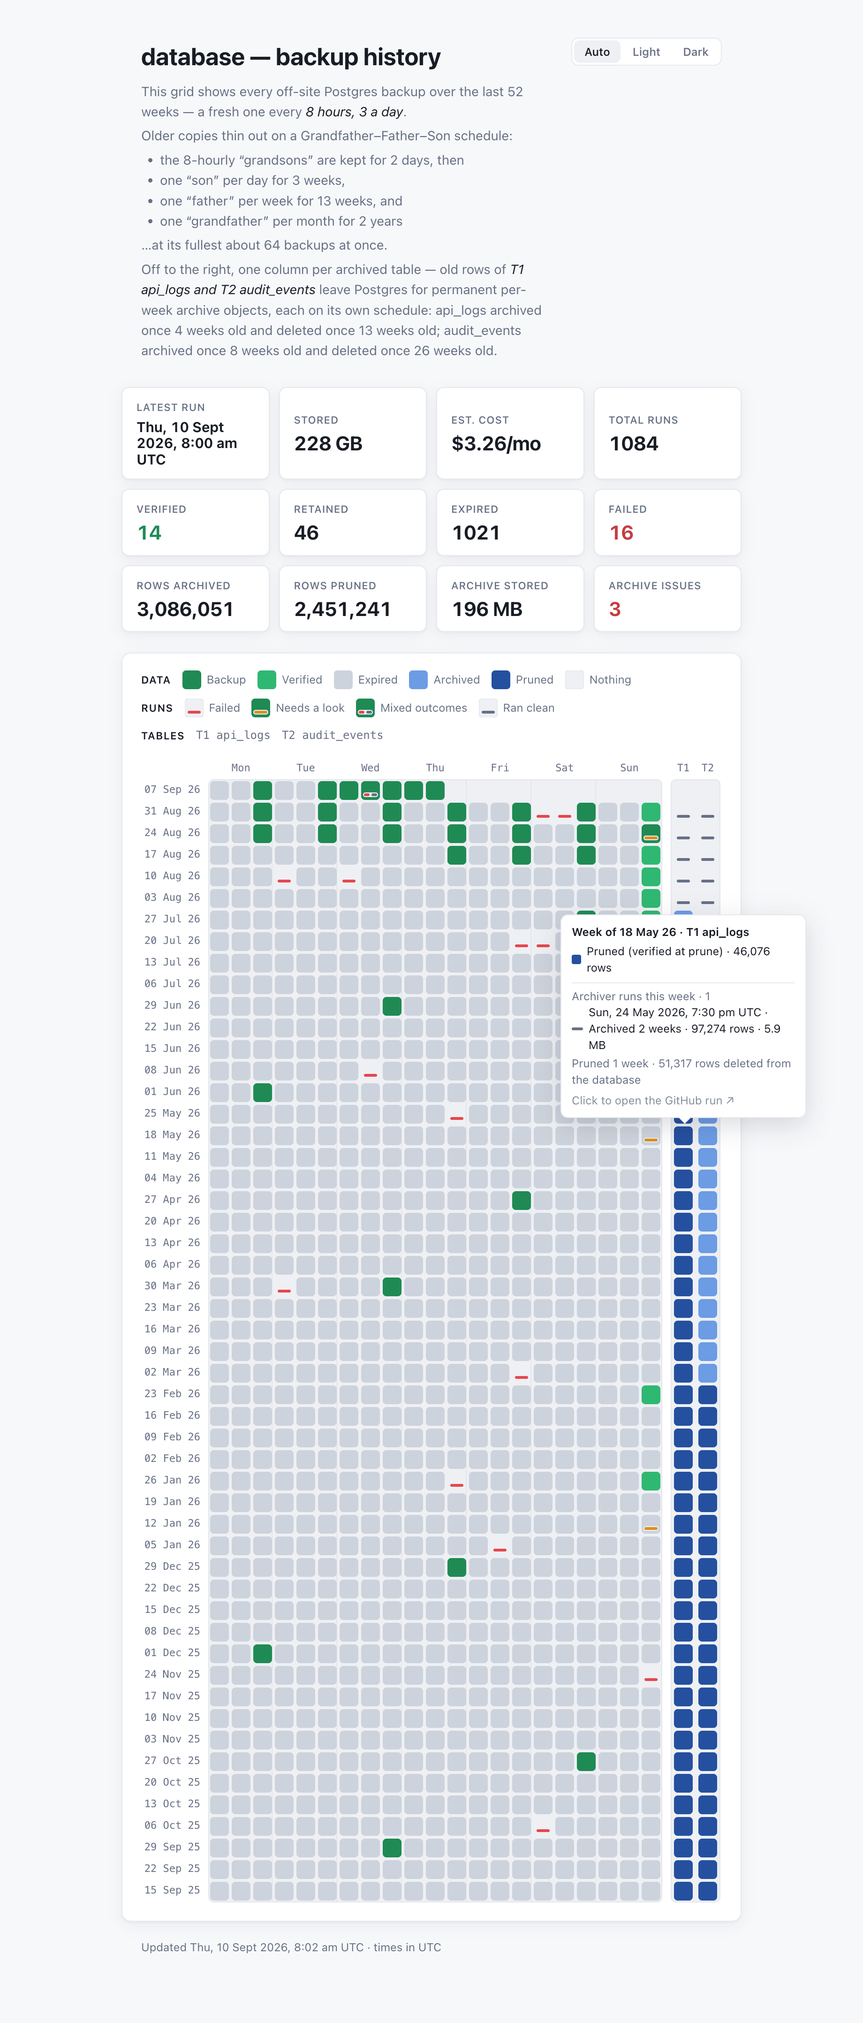
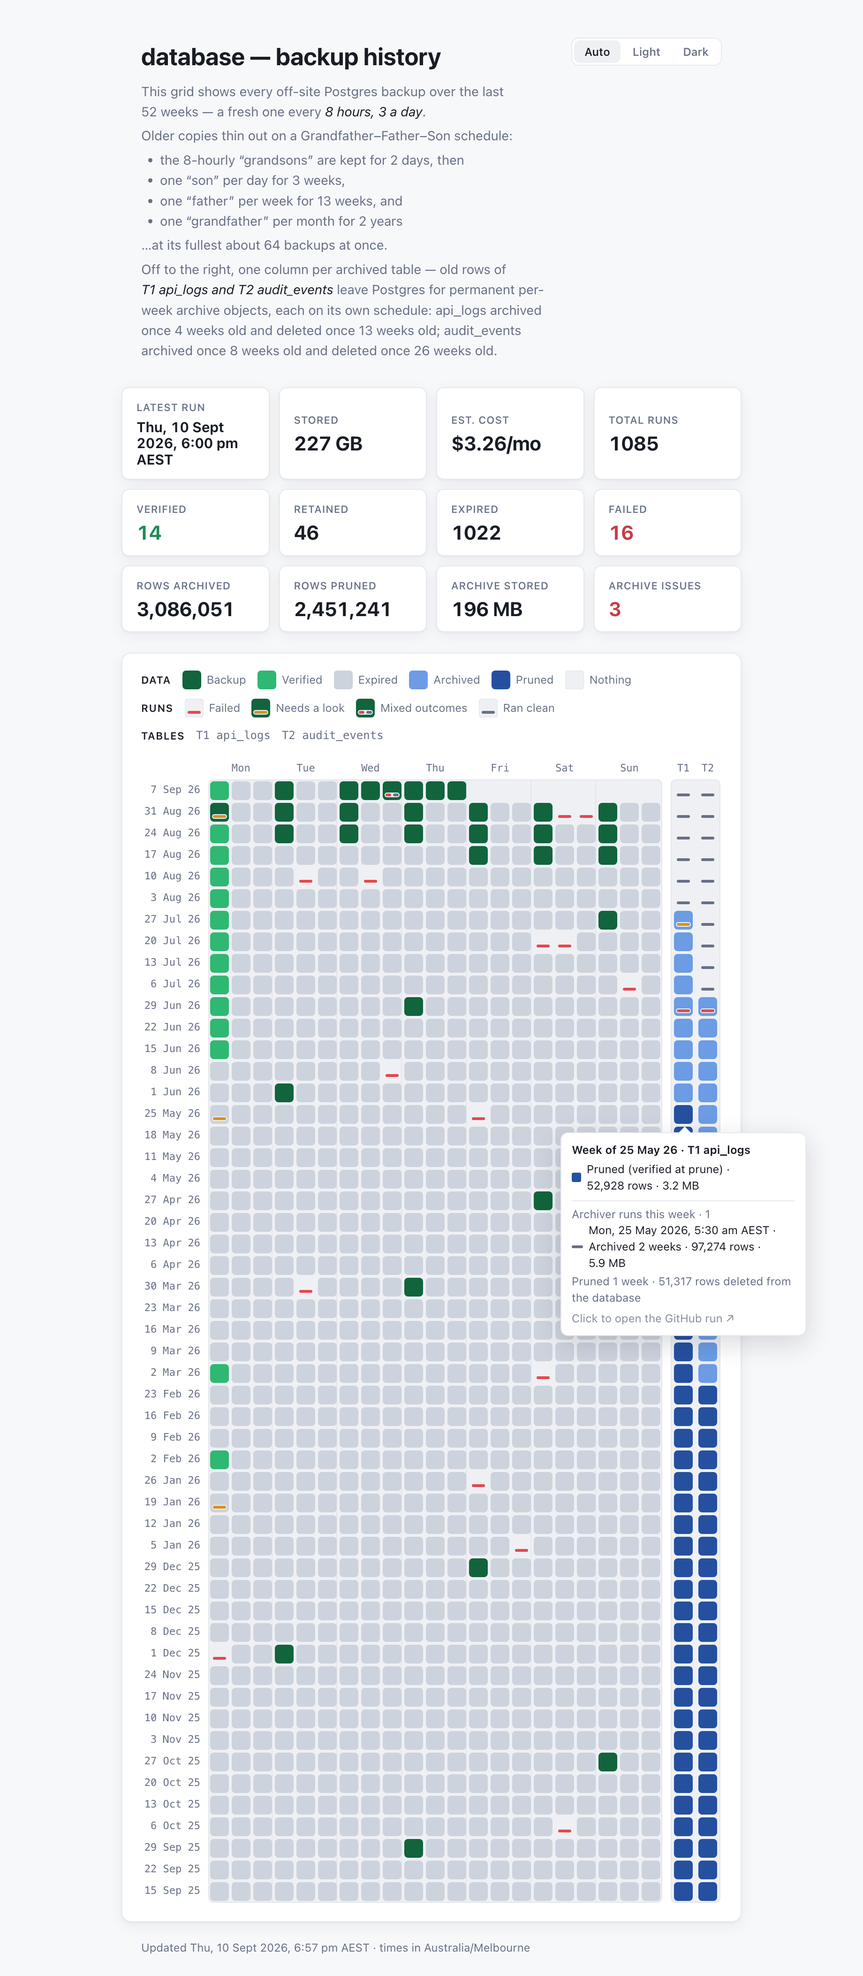
Four dashboard readability fixes: dates, archive sizes, green contrast, unit wrapping (#37)
* Right-align the week labels without a leading zero

A leading zero on a right-aligned label buys no alignment — the column already lines
up on its right edge — and it makes every row read as a serial number rather than a
date. "7 Sep 26", not "07 Sep 26".

* Give an archived week a size, the way a backup slot has one

A backup cell says how big its dump is; an archive cell said only how many rows it holds,
which left the one question an operator asks of an archive — what is this costing me —
answerable only in aggregate from the ARCHIVE STORED card.

The size was already known: archive-table.ts stats the object it uploads and records it in
the manifest as objectBytes. It simply never reached the index. ArchivedPart now carries
those bytes, written by both the live path and --rebuild-index, and scrubArchiveWeek
publishes the ACTIVE part's size beside the active part's rows, so the two always describe
the same object.

bytes is OMITTED, never zeroed, when a part records none: index lines written before this
field existed, and zero-row weeks that get a manifest but no data object, must read as
"size unknown" — "0 B" would read as an empty archive. Weeks already in a live index
therefore keep showing rows alone until they are re-archived, or until --rebuild-index
back-fills them from the manifests.

* Open up the green ramp so verified does not read as unverified

"A backup exists" and "a restore drill proved it restores" are the same shape in the same
[…]

Changed region(s): [[0.1549, 0.0311, 0.8984, 0.9644], [0.7125, 0.1867, 0.8054, 0.3111]]

diff --git a/dashboard/heatmap.ts b/dashboard/heatmap.ts
@@ -54,6 +54,7 @@ import {
   type RectOp,
 } from "../scripts/lib/cellGlyph.js";
 import { summarizeOutcomes, type CellMark, type OutcomeCode, NO_MARK } from "../scripts/lib/outcomes.js";
+import { bindUnits } from "../scripts/lib/units.js";
 import { themeControl } from "./theme.js";
 
 const SVGNS = "http://www.w3.org/2000/svg";
@@ -440,12 +441,30 @@ const PANEL_GAP = 3;
 const EDGE = 8;
 
 /**
+ * Bind every "5.9 MB" / "2 weeks" in a subtree so it cannot wrap — see units.ts for why this is done
+ * to rendered text rather than to the strings that produce it.
+ *
+ * Walking TEXT NODES, not the HTML, is the point: the tooltip markup carries class names and hrefs,
+ * and a regex over the serialised form could reach inside an attribute. A text node cannot be an
+ * attribute, so this is incapable of corrupting the markup it fixes.
+ */
+function bindUnitsIn(root: Node): void {
+  const walk = document.createTreeWalker(root, NodeFilter.SHOW_TEXT);
+  for (let n = walk.nextNode(); n; n = walk.nextNode()) {
+    const bound = bindUnits(n.nodeValue ?? "");
+    if (bound !== n.nodeValue) n.nodeValue = bound;
+  }
+}
+
+/**
  * Place a panel against a cell: below it when there is room, above it when there isn't, centred on
  * the cell and clamped to the viewport — with the beak shifted by whatever the clamp took, so it
  * keeps pointing at the cell even when the panel has been pushed sideways.
  */
 function placePanel(el: HTMLElement, html: string, anchor: Anchor): void {
   el.innerHTML = html;
+  bindUnitsIn(el); // before measuring: a bound line is what decides the panel's width
+
   // Measure from the left edge, not from wherever the panel last sat. These are fixed-position
   // shrink-to-fit boxes with `right: auto`, so their width depends on the space between `left` and
   // the viewport edge: measuring after positioning yields a width the panel then reflows away from,
@@ -698,6 +717,13 @@ function archiveProblem(r: PublicArchiveRun): string {
   return bits.join(" · ");
 }
 
+/**
+ * " · 41.2 KB" — the size of the object those rows are stored in, said the same way a backup cell
+ * says its dump's size. Empty when the index line predates the field, so an old week reads as rows
+ * alone rather than claiming 0 B.
+ */
+const archiveSize = (bytes: number | undefined): string => (bytes == null ? "" : ` · ${formatBytes(bytes)}`);
+
 const ARCHIVE_DATA_LABEL: Record<ArchiveBodyState, string> = {
   archived: "Archived",
   pruned: "Pruned (verified at prune)",
@@ -719,7 +745,7 @@ function archiveTipHtml(r: number, table: string, cell: ArchiveCell | null): str
   const data = cell?.data ?? null;
   lines.push(
     data
-      ? `<div class="tip-state">${dot(bodyClass(data.state)!)}${ARCHIVE_DATA_LABEL[data.state]} · ${rowsWord(data.rows)}</div>`
+      ? `<div class="tip-state">${dot(bodyClass(data.state)!)}${ARCHIVE_DATA_LABEL[data.state]} · ${rowsWord(data.rows)}${archiveSize(data.bytes)}</div>`
       : `<div class="tip-muted">No rows archived for this week</div>`,
   );
 
@@ -766,3 +792,8 @@ function archiveChooserHtml(cell: ArchiveCell): string {
 // Footer: generated-at
 const footer = elem("footer", "footer", `Updated ${formatInTz(now)} · times in ${DISPLAY_TZ}`);
 app.appendChild(footer);
+
+// The page is now complete, so bind its numbers to their units in one pass — the stat values, the
+// GFS bullets, the archive blurb, the week-start labels and this footer, none of which know about
+// each other. The tooltips are bound as they are built, in placePanel.
+bindUnitsIn(app);

diff --git a/scripts/__tests__/units.test.ts b/scripts/__tests__/units.test.ts
@@ -1,0 +1,49 @@
+import { test } from "node:test";
+import assert from "node:assert/strict";
+import { bindUnits, NBSP } from "../lib/units.js";
+import { retentionBullets, archiveBlurb, slotCadencePhrase, DEFAULT_RETENTION } from "../lib/backupTypes.js";
+
+// U+00A0 and U+0020 look identical in a failure message, so every assertion here is written against
+// the NBSP constant rather than against a pasted character.
+const bound = (n: string, unit: string): string => `${n}${NBSP}${unit}`;
+
+test("bindUnits: a number and the word it measures cannot be split", () => {
+  for (const [n, unit] of [["5.9", "MB"], ["3,045", "rows"], ["2", "weeks"], ["1", "week"],
+                           ["227", "GB"], ["64", "backups"], ["10", "Sept"], ["8:00", "am"]]) {
+    assert.equal(bindUnits(`${n} ${unit}`), bound(n, unit));
+  }
+});
+
+test("bindUnits: every pair on a line is bound, not just the first", () => {
+  assert.equal(
+    bindUnits("Archived 2 weeks · 97,274 rows · 5.9 MB"),
+    `Archived ${bound("2", "weeks")} · ${bound("97,274", "rows")} · ${bound("5.9", "MB")}`,
+  );
+});
+
+test("bindUnits: spaces that are NOT a number meeting its unit stay breakable", () => {
+  // A tooltip is ~240px wide; gluing text that has no reason to stay together only makes the panel
+  // wider. A digit before a digit is a date or a separator, and a digit before punctuation is a
+  // break the panel actively wants.
+  for (const s of ["Sun, 24 May 2026, 7:30 pm UTC", "Archiver runs this week · 1 — Archived",
+                   "Week of 18 May 26 · T1 api_logs", "rows deleted from the database"]) {
+    assert.equal(bindUnits(s).includes(`26${NBSP}·`), false, s);
+  }
+  assert.equal(bindUnits("2026, 7:30 pm"), `2026, ${bound("7:30", "pm")}`, "the year keeps its break");
+  assert.equal(bindUnits("· 1 — Archived"), "· 1 — Archived", "an em dash is a break opportunity");
+});
+
+test("bindUnits: idempotent — a panel rebuilt from bound text is unchanged", () => {
+  const once = bindUnits("Archived 2 weeks · 5.9 MB");
+  assert.equal(bindUnits(once), once);
+});
+
+// The reason this rule is applied to rendered text rather than to the builders: these three produce
+// numbers and units, none of them knows about the others, and none of them should have to.
+test("the page's prose still reads as plain strings — binding is the renderer's job", () => {
+  const prose = [...retentionBullets(DEFAULT_RETENTION), slotCadencePhrase(),
+                 Object.values(archiveBlurb([{ table: "api_logs", archiveAfterWeeks: 4, pruneAfterWeeks: 13 }])).join("")];
+  for (const s of prose) assert.equal(s.includes(NBSP), false, `${s} should carry no U+00A0`);
+  // …and the renderer's pass is what makes them safe.
+  assert.equal(bindUnits(retentionBullets(DEFAULT_RETENTION)[1]).includes(bound("3", "weeks")), true);
+});

diff --git a/scripts/__tests__/dashboard-theme.test.ts b/scripts/__tests__/dashboard-theme.test.ts
@@ -88,6 +88,46 @@ test("every body and mark class colours the SVG and the tooltip from one declara
   }
 });
 
+// ── Palette separation ───────────────────────────────────────────────────────
+
+/** WCAG relative luminance of a #rrggbb literal. */
+function luminance(hex: string): number {
+  const ch = (i: number): number => {
+    const c = parseInt(hex.slice(1 + i * 2, 3 + i * 2), 16) / 255;
+    return c <= 0.03928 ? c / 12.92 : ((c + 0.055) / 1.055) ** 2.4;
+  };
+  return 0.2126 * ch(0) + 0.7152 * ch(1) + 0.0722 * ch(2);
+}
+const ratio = (a: string, b: string): number => {
+  const [hi, lo] = [luminance(a), luminance(b)].sort((x, y) => y - x);
+  return (hi + 0.05) / (lo + 0.05);
+};
+/** The two `light-dark()` arms of a token, as hex literals. */
+function arms(token: string): [string, string] {
+  const m = html.match(new RegExp(`${token}:\\s*light-dark\\((#[0-9a-f]{6}),\\s*(#[0-9a-f]{6})\\)`));
+  assert.ok(m, `${token} must be declared as light-dark() of two hex literals`);
+  return [m![1], m![2]];
+}
+
+test("the two greens are a real step apart — a verified backup must LOOK like the stronger claim", () => {
+  // `--ok` and `--verified` are the same shape in the same column; colour is the only thing
+  // carrying "a drill proved this one restores". At one step apart they read as one green on the
+  // published page, which is the whole reason this floor exists.
+  const [okL, okD] = arms("--ok");
+  const [verL, verD] = arms("--verified");
+  assert.ok(ratio(okL, verL) >= 2.4, `light: ${okL} vs ${verL} is only ${ratio(okL, verL).toFixed(2)}:1`);
+  assert.ok(ratio(okD, verD) >= 2.4, `dark: ${okD} vs ${verD} is only ${ratio(okD, verD).toFixed(2)}:1`);
+});
+
+test("…and the darker of the two still clears 3:1 against the grid it sits on", () => {
+  // The floor above is satisfiable by making `--ok` black. This is the other side of it: a body
+  // square is a graphical object, so AA wants 3:1 against the surface behind it.
+  const [okL, okD] = arms("--ok");
+  const [surfL, surfD] = arms("--surface");
+  assert.ok(ratio(okL, surfL) >= 3, `light: ${okL} on ${surfL} is ${ratio(okL, surfL).toFixed(2)}:1`);
+  assert.ok(ratio(okD, surfD) >= 3, `dark: ${okD} on ${surfD} is ${ratio(okD, surfD).toFixed(2)}:1`);
+});
+
 test("every token a rule reads is actually declared", () => {
   // A declaration is `--x:`; a read is `var(--x)` and is never followed by a colon, so a plain
   // global match separates the two without caring how the stylesheet is wrapped.

diff --git a/scripts/lib/units.ts b/scripts/lib/units.ts
@@ -1,0 +1,36 @@
+// ─────────────────────────────────────────────────────────────────────────────
+// One typographic rule: a number and the word it measures are a single token.
+//
+// "5.9 MB" broken across two lines reads as two facts, and in a 240px tooltip that happens
+// constantly — "Archived 2 weeks · 97,274 rows · 5.9 / MB" is genuinely harder to read than the
+// same line one word narrower would be.
+//
+// The fix is applied to RENDERED TEXT rather than threaded through the string builders, and that is
+// the whole design of this module. Every count in the page is assembled somewhere different — the
+// tooltips here, the prose in backupTypes.ts, tier labels parsed out of the profile in config.ts —
+// so binding at the source would mean an invisible U+00A0 in a dozen template literals and in every
+// test that asserts one. Binding at the sink is one rule, applied once, that no new caller can
+// forget.
+// ─────────────────────────────────────────────────────────────────────────────
+
+/** U+00A0. Spelled out because it is invisible in source and in test failures. */
+export const NBSP = "\u00a0";
+
+/**
+ * A digit, then a space, then a letter: bind them.
+ *
+ * The lookahead is deliberately letters only. A space between two digits is a thousands separator
+ * or a date ("2026, 7:30"), and a space before punctuation ("· 1 — Archived") is a real break
+ * opportunity the panel needs — gluing those would only make the box wider for no gain.
+ */
+const NUMBER_THEN_UNIT = /(\d) (?=\p{L})/gu;
+
+/**
+ * "5.9 MB", "3,045 rows", "2 weeks", "10 Sept", "8:00 am" — each becomes unbreakable.
+ *
+ * Idempotent: text already bound has no plain space left to match, so re-running over a panel that
+ * was rebuilt from bound text is a no-op rather than a corruption.
+ */
+export function bindUnits(text: string): string {
+  return text.replace(NUMBER_THEN_UNIT, `$1${NBSP}`);
+}

diff --git a/scripts/lib/archiveIndex.ts b/scripts/lib/archiveIndex.ts
@@ -24,9 +24,14 @@ import type { PublicArchiveWeek } from "./backupTypes.js";
 const warn = (msg: string): void => void process.stderr.write(`${msg}\n`);
 
 /**
- * One private index line reduced to what the dashboard may say out loud: the week, its state, and
- * how many rows it holds. `rows` is the ACTIVE part's count — the highest-numbered `full` part, per
- * archive.ts — because supplements describe rows that arrived late, not a snapshot of the window.
+ * One private index line reduced to what the dashboard may say out loud: the week, its state, how
+ * many rows it holds and how big it is. Both come from the ACTIVE part — the highest-numbered
+ * `full` part, per archive.ts — because supplements describe rows that arrived late, not a snapshot
+ * of the window, and a size beside a row count must describe the same object the count does.
+ *
+ * `bytes` is omitted rather than zeroed when the part records none: an index line written before
+ * the field existed, or a zero-row week with no data object, must render as "no size known" and not
+ * as "0 B". Weeks archived before this shipped therefore keep showing rows alone.
  *
  * Pure, and tested as such: it is the only thing standing between the private index and a public
  * page, so "no digest ever reaches the payload" is a unit test rather than a code review.
@@ -37,7 +42,15 @@ export function scrubArchiveWeek(table: string, record: unknown): PublicArchiveW
   if (typeof rec.label !== "string") return null;
   if (rec.state !== "archived" && rec.state !== "pruned") return null;
   const parts = Array.isArray(rec.parts) ? rec.parts : [];
-  return { table, week: rec.label, state: rec.state, rows: activePart(parts)?.rowCount ?? 0 };
+  const active = activePart(parts);
+  const bytes = active?.bytes;
+  return {
+    table,
+    week: rec.label,
+    state: rec.state,
+    rows: active?.rowCount ?? 0,
+    ...(typeof bytes === "number" && Number.isFinite(bytes) ? { bytes } : {}),
+  };
 }
 
 /**

diff --git a/scripts/build-dashboard.ts b/scripts/build-dashboard.ts
@@ -450,8 +450,9 @@ function makeSample(now: Date): {
   /** A plausible fingerprint. Never published — the scrub drops it — but the record carries one. */
   const fakeDigest = (label: string): string =>
     [...label].reduce((h, c) => (Math.imul(h ^ c.charCodeAt(0), 16_777_619) >>> 0), 2_166_136_261).toString(16).padStart(16, "0");
-  const fullPart = (part: number, rows: number, label: string): ArchivedPart => ({
-    part, role: "full", rowCount: rows, fingerprint: { n: rows, digest: fakeDigest(`${label}#${part}`) },
+  const fullPart = (part: number, rows: number, label: string, bytesPerRow: number): ArchivedPart => ({
+    part, role: "full", rowCount: rows, bytes: rows * bytesPerRow,
+    fingerprint: { n: rows, digest: fakeDigest(`${label}#${part}`) },
   });
 
   /** What one table's store knows about one week, as the simulation walks forward. */
@@ -478,7 +479,9 @@ function makeSample(now: Date): {
       const rows = Math.round(v.rows + rand() * v.spread);
       rowsArchived += rows;
       bytes += rows * v.bytesPerRow;
-      if (commit) book.set(w.label, { rows, state: "archived", parts: [fullPart(1, rows, w.label)] });
+      if (commit) {
+        book.set(w.label, { rows, state: "archived", parts: [fullPart(1, rows, w.label, v.bytesPerRow)] });
+      }
     }
     return { weeksArchived: weeks.length, rowsArchived, bytes };
   };
@@ -551,7 +554,11 @@ function makeSample(now: Date): {
   if (superseded) {
     const [label, b] = superseded;
     const grown = b.rows + 137;
-    b.parts = [{ ...fullPart(1, b.rows, label), role: "superseded" }, fullPart(2, grown, label)];
+    const perRow = VOLUME["public.api_logs"].bytesPerRow;
+    b.parts = [
+      { ...fullPart(1, b.rows, label, perRow), role: "superseded" },
+      fullPart(2, grown, label, perRow),
+    ];
     b.rows = grown;
   }
 

diff --git a/scripts/__tests__/archiveIndex.test.ts b/scripts/__tests__/archiveIndex.test.ts
@@ -45,6 +45,28 @@ test("scrubArchiveWeek: rows come from the ACTIVE part, not the newest or the su
   assert.equal(rows([]), 0, "a zero-row week is archived, and says so");
 });
 
+test("scrubArchiveWeek: bytes come from the same part the rows do", () => {
+  const week = scrubArchiveWeek("t", {
+    ...RECORD,
+    state: "archived",
+    parts: [
+      { part: 1, role: "superseded", rowCount: 100, bytes: 4_000, fingerprint: { n: 100, digest: "a" } },
+      { part: 2, role: "full", rowCount: 140, bytes: 5_500, fingerprint: { n: 140, digest: "b" } },
+    ],
+  });
+  assert.deepEqual(week, { table: "t", week: "2026-W02", state: "archived", rows: 140, bytes: 5_500 });
+});
+
+test("scrubArchiveWeek: a part with no byte count publishes no size at all", () => {
+  // Index lines written before `bytes` existed, and zero-row weeks (a manifest, no data object),
+  // must read as "size unknown" on the page. `bytes: 0` would read as "an empty archive".
+  for (const bytes of [undefined, null, "12", Number.NaN]) {
+    const parts = [{ part: 1, role: "full", rowCount: 409, bytes, fingerprint: { n: 409, digest: "a" } }];
+    assert.equal("bytes" in scrubArchiveWeek("t", { ...RECORD, parts })!, false, String(bytes));
+  }
+  assert.equal("bytes" in scrubArchiveWeek("api_logs", RECORD)!, false, "the legacy record shape");
+});
+
 test("scrubArchiveWeek: anything that is not a real week record is dropped, not guessed at", () => {
   for (const bad of [null, undefined, 42, "2026-W02", {}, { label: "2026-W02" },
                      { label: "2026-W02", state: "deleted", parts: [] },

diff --git a/scripts/lib/backupHistory.ts b/scripts/lib/backupHistory.ts
@@ -116,10 +116,10 @@ function ordinalToDate(ordinal: number): { y: number; mo: number; day: number } 
   return { y: d.getUTCFullYear(), mo: d.getUTCMonth() + 1, day: d.getUTCDate() };
 }
 
-/** Week-start label in DD MMM YY, e.g. "07 Jun 27". */
+/** Week-start label in D MMM YY, e.g. "7 Jun 27" — no leading zero, the labels are right-aligned. */
 export function weekStartLabel(ordinal: number): string {
   const { y, mo, day } = ordinalToDate(ordinal);
-  return `${String(day).padStart(2, "0")} ${MONTH_SHORT[mo - 1]} ${String(y).slice(-2)}`;
+  return `${day} ${MONTH_SHORT[mo - 1]} ${String(y).slice(-2)}`;
 }
 
 /**
@@ -493,7 +493,11 @@ export function buildArchiveColumns(payload: PublicPayload, now: Date, weeks = 5
     }
     const row = (currentWeekStart - monday) / DAYS_PER_WEEK;
     if (row < 0 || row >= weeks) continue;
-    channelsAt(row, w.table).data = { state: w.state, rows: w.rows };
+    channelsAt(row, w.table).data = {
+      state: w.state,
+      rows: w.rows,
+      ...(w.bytes != null ? { bytes: w.bytes } : {}),
+    };
   }
 
   const rows: Map<string, ArchiveCell>[] = [];

diff --git a/scripts/lib/backupTypes.ts b/scripts/lib/backupTypes.ts
@@ -291,6 +291,12 @@ export interface PublicArchiveWeek {
   week: string;
   state: ArchiveBodyState;
   rows: number;
+  /**
+   * Bytes of the archive object holding those rows — the stored size, exactly as a backup cell
+   * reports its dump's size. Optional because it was added after the first indexes were written:
+   * an older `_index/` line records no byte count, and a week without one must still render.
+   */
+  bytes?: number;
 }
 
 export interface PublicPayload {
@@ -428,7 +434,7 @@ export interface ArchiveCell {
    * that had no rows: the index gains a week only when it is archived, so a backlog and an empty
    * week look the same. That limit is forced by the data rather than chosen.
    */
-  data: { state: ArchiveBodyState; rows: number } | null;
+  data: { state: ArchiveBodyState; rows: number; bytes?: number } | null;
   /** The mark: did the archiver runs that happened this week go clean? See outcomes.ts. */
   mark: CellMark;
 }

diff --git a/scripts/archive-table.ts b/scripts/archive-table.ts
@@ -226,7 +226,7 @@ async function rebuildIndex(
       const prior = parts.find((p) => p.part === n);
       if (prior) prior.role = "superseded";
     }
-    parts.push({ part: m.part, role: m.role, rowCount: m.rowCount, fingerprint: m.fingerprint });
+    parts.push({ part: m.part, role: m.role, rowCount: m.rowCount, bytes: m.objectBytes ?? null, fingerprint: m.fingerprint });
     states.set(m.week, {
       label: m.week,
       state: "archived", // provisional; reconciled against the live table below
@@ -393,7 +393,7 @@ async function archiveWeek(ctx: {
     const p = parts.find((x) => x.part === n);
     if (p) p.role = "superseded";
   }
-  parts.push({ part, role: plan.role!, rowCount: live.n, fingerprint: live });
+  parts.push({ part, role: plan.role!, rowCount: live.n, bytes: manifest.objectBytes, fingerprint: live });
   states.set(week.label, {
     label: week.label,
     state: prior?.state === "pruned" ? "pruned" : "archived",

diff --git a/dashboard/template.html b/dashboard/template.html
@@ -31,8 +31,13 @@
 
     /* Body — "do we have data for this period?" Two ordinal ramps, greens for backups and blues
        for archives, because an archive is not a backup: it is where rows LIVE once they have left
-       Postgres, and it never expires. */
-    --ok:          light-dark(#1f8a54, #2a9d63);
+       Postgres, and it never expires.
+
+       Within the green ramp the two steps have to be told apart at 12px across a grid, not held
+       side by side in the legend: `--ok` ("a backup exists") sits well below `--verified` ("and a
+       restore drill proved it"), so the brighter square always means the stronger claim. They were
+       one step apart and read as the same green on the published page. */
+    --ok:          light-dark(#12643c, #1f7d50);
     --verified:    light-dark(#2fb872, #41d586);
     --expired:     light-dark(#cdd3dc, #3a414e);
     --archived:    light-dark(#6b9ce4, #4a7cb8);

diff --git a/scripts/lib/archive.ts b/scripts/lib/archive.ts
@@ -455,6 +455,12 @@ export interface ArchivedPart {
   part: number;
   role: PartRole;
   rowCount: number;
+  /**
+   * Bytes of the stored object for this part — the manifest's `objectBytes`, copied into the index
+   * so the dashboard can say a week's SIZE without fetching every manifest. `null` for a zero-row
+   * week (a manifest, no data object); absent on parts written before this field existed.
+   */
+  bytes?: number | null;
   fingerprint: Fingerprint;
 }
 
